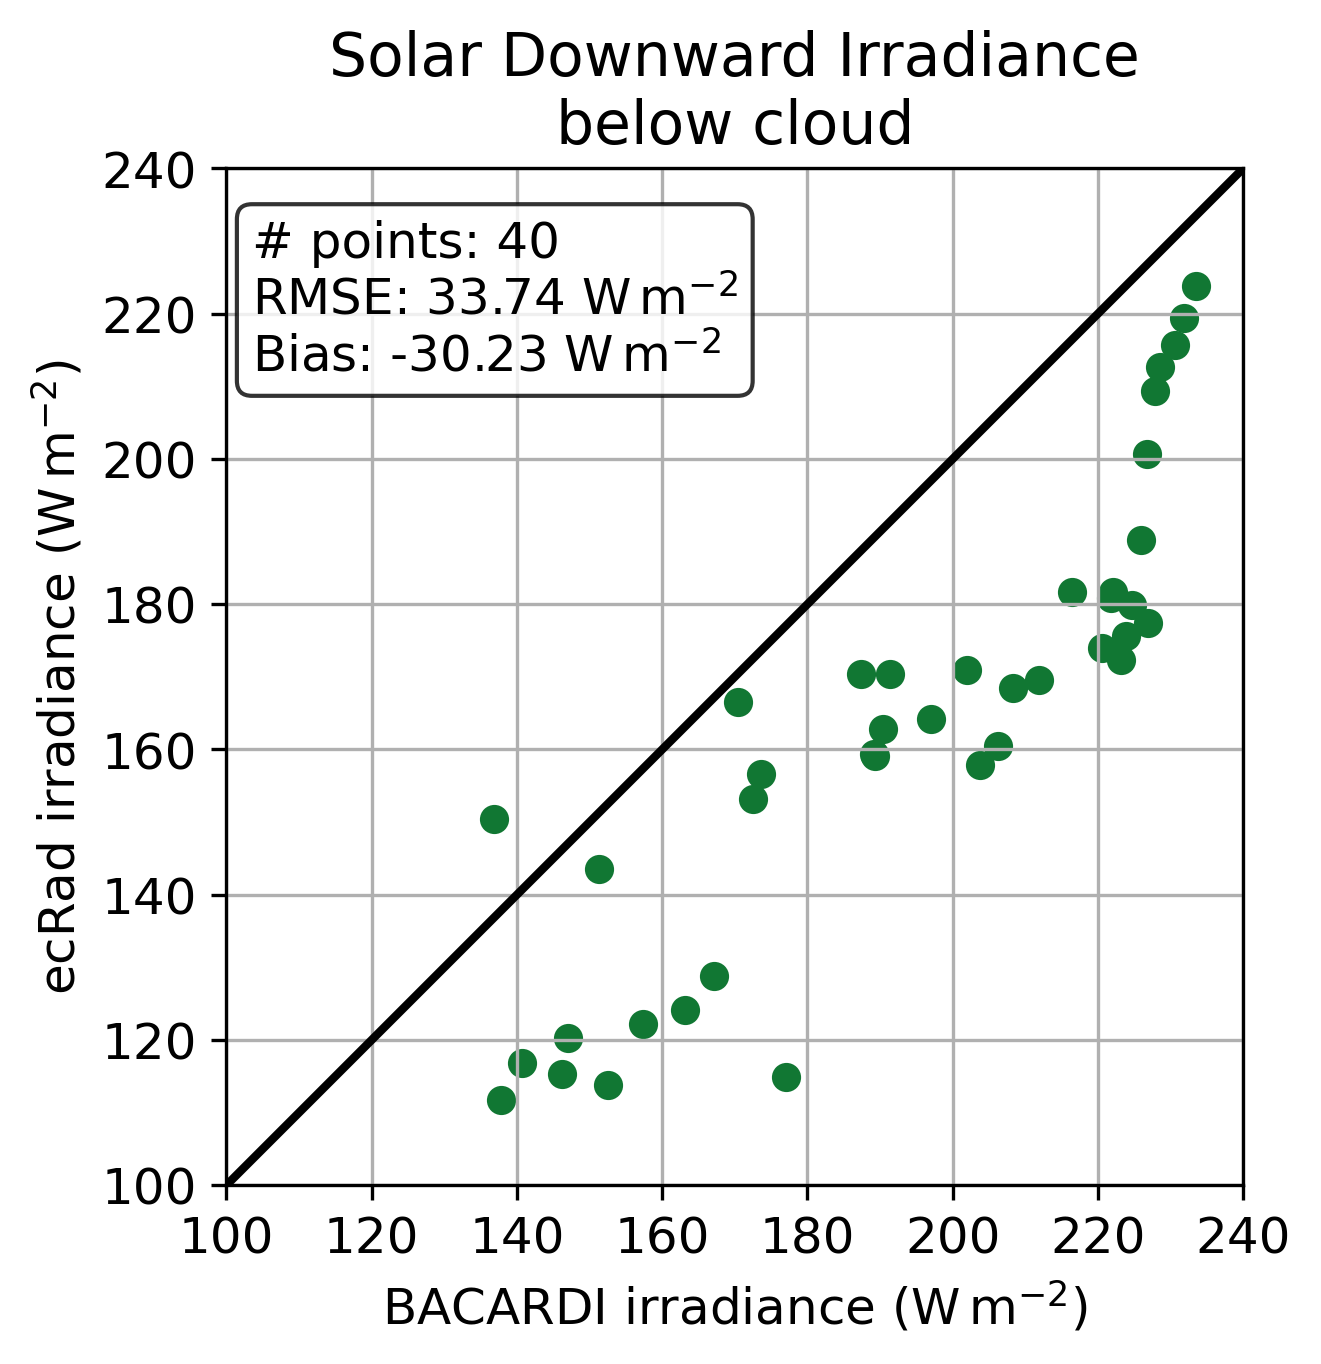
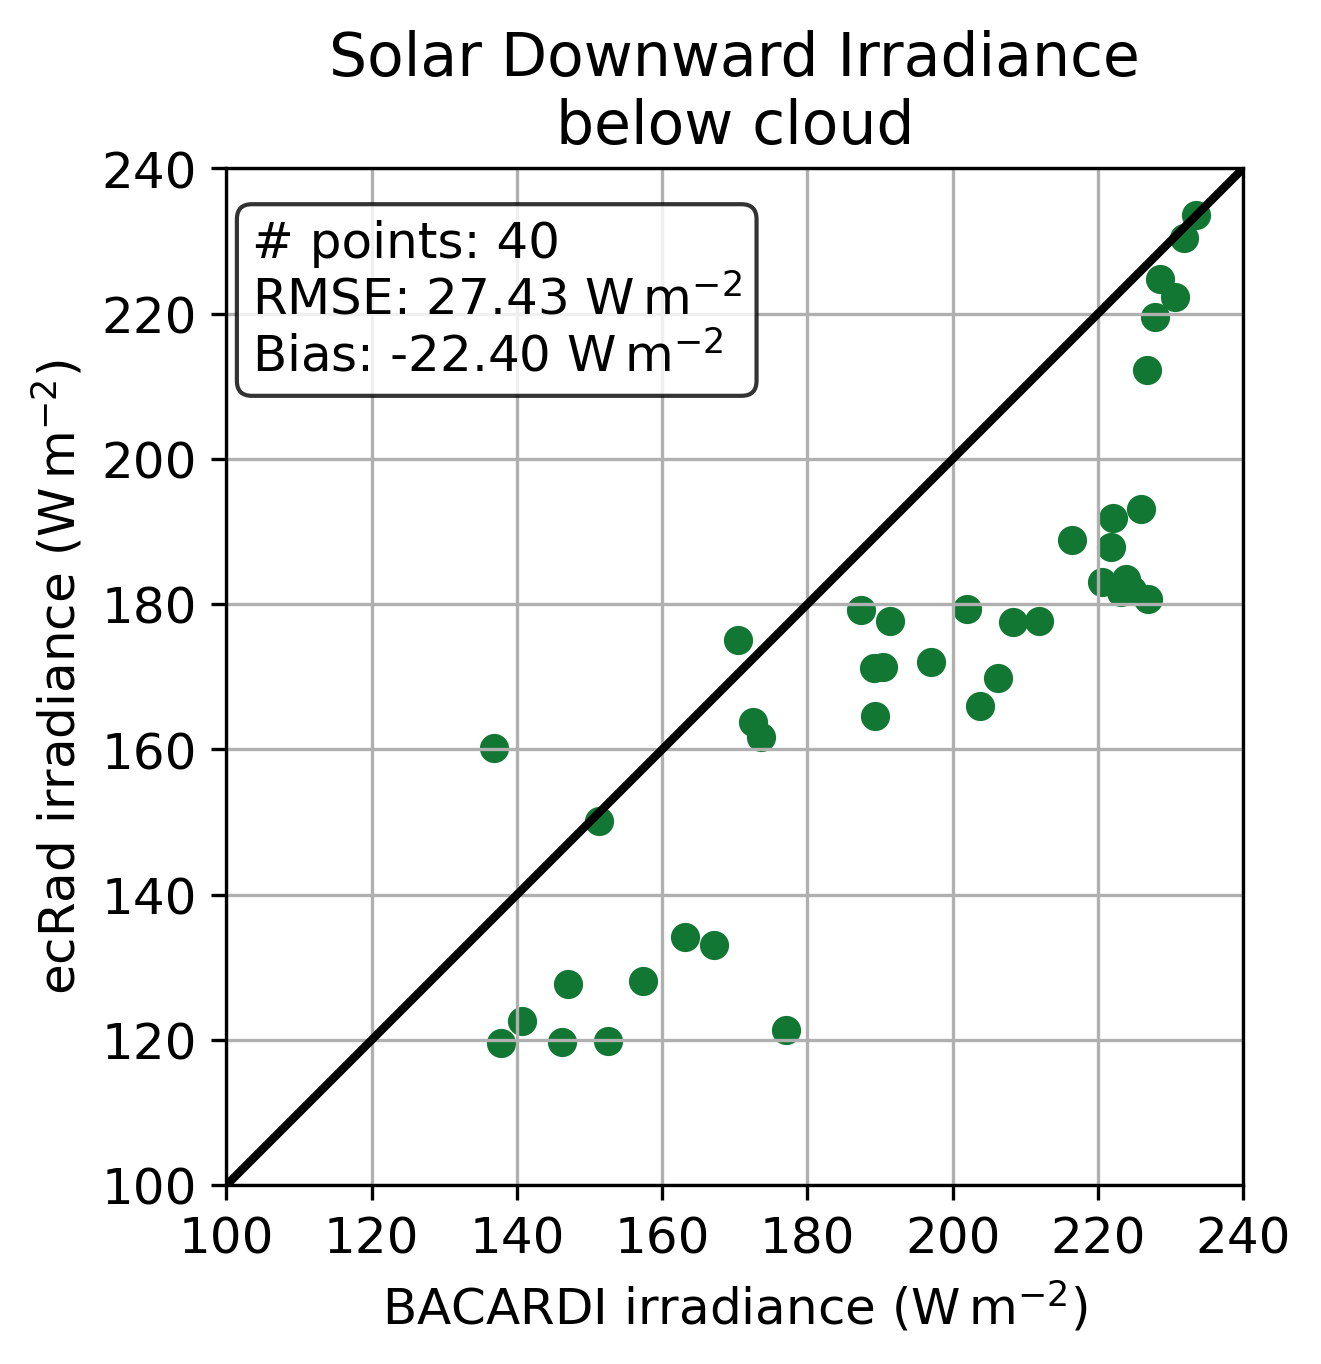
Update albedo experiment by using scaled albedo instead of constant values
- remove processing of ecRad data as this is now already done in ecrad_processing.py
- switch from F1280 to O1280 IFS data
- add scaling mechanism to the input file generation scripts
- update plots and documentation

diff --git a/experiments/ecrad_experiment_v13.py b/experiments/ecrad_experiment_v13.py
@@ -3,44 +3,47 @@
 | *author:* Johannes Röttenbacher
 | *created:* 15-04-2023
 
-Set the albedo during the whole flight to 0.06 (open ocean) or 0.99 (maximum albedo) and analyze the impact on the offset between simulation and measurement during the below cloud section in RF17.
+Set the albedo during the whole flight to 0.06 (open ocean) or scale it to 0.99 (maximum albedo) and analyze the impact on the offset between simulation and measurement during the below cloud section in RF17.
 
 * ``IFS_namelist_jr_20220411_v13.nam``: for flight RF17 with Fu-IFS ice model setting albedo to open ocean (input version v5)
 * ``IFS_namelist_jr_20220411_v13.1.nam``: for flight RF17 with Fu-IFS ice model setting albedo to 0.99 (input version v5.1)
+* ``IFS_namelist_jr_20220411_v13.2.nam``: for flight RF17 with Fu-IFS ice model setting albedo BACARDI measurement from below cloud section (input version v5.2)
 
 **Problem statement:** A clear offset can be observed in the solar downward irradiance below the cloud between ecRad and BACARDI with ecRad showing lower values than BACARDI.
 One idea is that multiple scattering from the sea ice surface to the cloud and back down plays a role here.
 By setting the albedo to open ocean (0.06) we can eliminate this multiple backscattering between cloud and surface.
 Comparing this experiment with the standard experiment can show us the potential impact of multiple scattering.
-We also run a experiment where we set the albedo to 0.99 to see how much more downward irradiance we can observe that way.
+We also run an experiment where we scale the albedo to 0.99 to see how much more downward irradiance we can observe that way.
+
+**Extension:** We extend the analysis and use the scaled measured below cloud albedo from BACARDI as input.
 
 We will focus on the above and below cloud section in the far north.
-The corresponding spectral surface albedo can be seen in :numref:`surface-albedo-cs`.
+The corresponding spectral surface albedo as used in the IFS can be seen in :numref:`surface-albedo-cs`.
 
 .. _surface-albedo-cs:
 
-.. figure:: figures/experiment_v13/HALO-AC3_20220411_HALO_RF17_sw_albedo_along_track_v1.png
+.. figure:: figures/experiment_v13/HALO-AC3_20220411_HALO_RF17_sw_albedo_along_track_v15.png
 
     Short wave albedo along track above and below cloud for all six spectral bands after :cite:t:`Ebert1992`.
 
-At first, we look at the difference in solar upward and downward irradiance between v1 (IFS albedo after :cite:t:`Ebert1992`) and v13 (ocean albedo 0.06).
+At first, we look at the difference in solar upward and downward irradiance between v15 (IFS albedo after :cite:t:`Ebert1992`) and v13 (ocean albedo 0.06).
 
 .. figure:: figures/experiment_v13/HALO-AC3_20220411_HALO_RF17_ecrad_diff_flux_up_sw_along_track.png
 
-    Difference in solar upward irradiance between v1 and v13.
+    Difference in solar upward irradiance between v15 and v13.
 
 .. figure:: figures/experiment_v13/HALO-AC3_20220411_HALO_RF17_ecrad_diff_flux_dn_sw_along_track.png
 
-    Difference in solar downward irradiance between v1 and v13.
+    Difference in solar downward irradiance between v15 and v13.
 
 We can see an unsurprising substantial difference in upward irradiance which then propagates to a smaller but still relevant difference in downward irradiance.
 This is especially pronounced for the thicker section of the cirrus at around 11:15 UTC.
 
 Looking at this from a more statistical point of view we can see the bias between simulation and measurement increase by about :math:`10\,Wm^{-2}`.
 
-.. figure:: figures/experiment_v13/HALO-AC3_20220411_HALO_RF17_Fdw_solar_bacardi_vs_ecrad_scatter_below_cloud_v1.png
+.. figure:: figures/experiment_v13/HALO-AC3_20220411_HALO_RF17_Fdw_solar_bacardi_vs_ecrad_scatter_below_cloud_v15.png
 
-    Scatterplot of along track difference between ecRad and BACARDI for v1.
+    Scatterplot of along track difference between ecRad and BACARDI for v15.
 
 .. figure:: figures/experiment_v13/HALO-AC3_20220411_HALO_RF17_Fdw_solar_bacardi_vs_ecrad_scatter_below_cloud_v13.png
 
@@ -54,7 +57,7 @@ For this we can take a look at the histogramm of differences and some statistics
 
 .. figure:: figures/experiment_v13/HALO-AC3_20220411_HALO_RF17_ecrad_diff_flux_dn_sw_hist.png
 
-    Histogram of differences between v1 and v13.
+    Histogram of differences between v15 and v13.
 
 We see that a lot of values are rather small.
 They correspond to the area above the cloud where only the atmosphere causes some minor scattering.
@@ -62,13 +65,15 @@ The median and mean of the distribution, however, are around :math:`10\\,Wm^{-2}
 
 So albedo does obviously have a major influence on the downward irradiance in this scenario.
 The next question now is, whether we can reduce the bias by increasing the surface albedo?
-For this we take a look at experiment v13.1 with an albedo of 0.99.
+For this we take a look at experiment v13.1 with a scaled albedo of 0.99.
+The albedo is scaled in such a way that the maximum albedo in the first short wave albedo band is set to 0.99 and the following bands are scaled according to the relative differences between the original short wave albedo bands.
+See the script for details.
 
 .. figure:: figures/experiment_v13/HALO-AC3_20220411_HALO_RF17_ecrad_diff1_flux_dn_sw_along_track.png
 
-    Difference in solar downward irradiance between v1 and v13.1 (albedo = 0.99).
+    Difference in solar downward irradiance between v15 and v13.1 (albedo = 0.99).
 
-By increasing the albedo to an unrealistic value of 0.99 we get a maximum of :math:`3\\,Wm^{-2}` difference in solar downward irradiance.
+By scaling the albedo to an unrealistic value of 0.99 we get a maximum of :math:`0.7\\,Wm^{-2}` difference in solar downward irradiance.
 Comparing the spectral albedo of each experiment in :numref:`spectral-albedo-all-experiments` we can also see, that the standard albedo for the scene is already high.
 So increasing it does not seem to be a sensible idea.
 
@@ -76,7 +81,19 @@ So increasing it does not seem to be a sensible idea.
 
 .. figure:: figures/experiment_v13/HALO-AC3_20220411_HALO_RF17_IFS_sw_albedo_spectrum_1100.png
 
-    Spectral albedo for all three experiments at one timestep below cloud.
+    Spectral albedo for all four experiments at one timestep below cloud.
+
+However, what happens if we use the measured albedo from BACARDI for the below cloud simulation which is lower than the one in the IFS but not as low as 0.06?
+Looking at the difference in solar downward irradiance we can see that it is still a positive difference meaning the predicted downward irradiance is still smaller compared to the IFS run.
+
+.. figure:: figures/experiment_v13/HALO-AC3_20220411_HALO_RF17_ecrad_diff2_flux_dn_sw_along_track.png
+
+    Difference in solar downward irradiance between v15 and v13.2 (albedo from BACARDI).
+
+The comparison with the measurements also show a worse match compared to v15.
+
+.. figure:: figures/experiment_v13/HALO-AC3_20220411_HALO_RF17_Fdw_solar_bacardi_vs_ecrad_scatter_below_cloud_v13.2.png
+
 
 From all this we can conclude that **the albedo does not seem to be the major problem** in this scene.
 
@@ -86,14 +103,10 @@ if __name__ == "__main__":
 # %% import modules
     import pylim.helpers as h
     import pylim.halo_ac3 as meta
-    from pylim import ecrad
     import ac3airborne
     from ac3airborne.tools import flightphase
-    import os
     import xarray as xr
     import numpy as np
-    from metpy.calc import density
-    from metpy.units import units
     import matplotlib.pyplot as plt
     from matplotlib import colors
     import pandas as pd
@@ -119,11 +132,6 @@ if __name__ == "__main__":
     bahamas_path = h.get_path("bahamas", flight, campaign)
     bahamas_file = f"HALO-AC3_HALO_BAHAMAS_{date}_{key}_v1_1s.nc"
 
-    # set up metadata for access to HALO-AC3 cloud
-    kwds = {'simplecache': dict(same_names=True)}
-    credentials = {"user": os.environ.get("AC3_CLOUD_USER"), "password": os.environ.get("AC3_CLOUD_PASSWORD")}
-    cat = ac3airborne.get_intake_catalog()["HALO-AC3"]["HALO"]
-
 # %% get flight segments for case study period
     segmentation = ac3airborne.get_flight_segments()["HALO-AC3"]["HALO"][f"HALO-AC3_HALO_{key}"]
     segments = flightphase.FlightPhaseFile(segmentation)
@@ -147,7 +155,7 @@ if __name__ == "__main__":
 
     time_extend_cs = below_cloud["end"] - above_cloud["start"]  # time extend for case study
 
-# %% read in data from HALO-AC3 cloud
+# %% read in bahamas data
     ins = xr.open_dataset(f"{bahamas_path}/{bahamas_file}")
 
 # %% read in BACARDI data
@@ -156,9 +164,9 @@ if __name__ == "__main__":
 
 # %% read in ecrad data
     ecrad_dict = dict()
-    for v in ["v1", "v13", "v13.1"]:
+    for v in ["v15", "v13", "v13.1", "v13.2"]:
         # use mean over columns data
-        ds = xr.open_dataset(f"{ecrad_path}/ecrad_merged_inout_{date}_{v}_mean.nc")
+        ds = xr.open_dataset(f"{ecrad_path}/ecrad_merged_inout_{date}_{v}.nc").isel(column=0)
         # select above and below cloud time
         ds = ds.sel(time=case_slice)
         ecrad_dict[v] = ds.copy()
@@ -167,43 +175,16 @@ if __name__ == "__main__":
     for k in ecrad_dict:
         ds = ecrad_dict[k].copy()
         # add coordinate values
-        ds = ds.assign_coords({"band_sw": range(1, 15), "band_lw": range(1, 17), "sw_albedo_band": range(1, 7)})
-        # replace default values with nan
-        ds["re_ice"] = ds.re_ice.where(ds.re_ice != 5.196162e-05, np.nan)
-        ds["re_liquid"] = ds.re_liquid.where(ds.re_liquid != 4.000001e-06, np.nan)
+        ds = ds.assign_coords({"sw_albedo_band": range(1, 7)})
 
-        # compute cloud ice water path
-        factor = ds.pressure_hl.diff(dim="half_level").to_numpy() / (9.80665 * ds.cloud_fraction.to_numpy())
-        ds["iwp"] = (["time", "level"], factor * ds.ciwc.to_numpy())
+        # replace inf with nan in ice water path
         ds["iwp"] = ds.iwp.where(ds.iwp != np.inf, np.nan)
-
-        # convert kg/kg to kg/m³
-        air_density = density(ds.pressure_full * units.Pa, ds.t * units.K, ds.q * units("kg/kg"))
-        ds["iwc"] = ds["q_ice"] * units("kg/kg") * air_density
-
-        # add optical properties to data sets
-        ice_optics_fu = ecrad.calc_ice_optics_fu_sw(ds["iwp"], ds.re_ice)
-        ds["od"] = ice_optics_fu[0]
-        ds["scat_od"] = ice_optics_fu[1]
-        ds["g"] = ice_optics_fu[2]
-        ds["band_sw"] = range(1, 15)
-        ds["band_lw"] = range(1, 17)
-        ds["absorption"] = ds["od"] - ds["scat_od"]
-        ds["od_mean"] = ds["od"].mean(dim="band_sw")
-        ds["scat_od_mean"] = ds["scat_od"].mean(dim="band_sw")
-        ds["g_mean"] = ds["g"].mean(dim="band_sw")
-        ds["scat_od_int"] = ds["scat_od"].integrate(coord="band_sw")
-        ds["od_int"] = ds["od"].integrate(coord="band_sw")
-        ds["absorption_int"] = ds["absorption"].integrate(coord="band_sw")
-
-        # calculate other optical parameters
-        ds["reflectivity_sw"] = ds.flux_up_sw / ds.flux_dn_sw
 
         ecrad_dict[k] = ds.copy()
 
 # %% get height level of actual flight altitude in ecRad model, this determines only the index of the level
     aircraft_height_da, height_level_da = dict(), dict()
-    for v in ["v1", "v13"]:
+    for v in ["v15", "v13", "v13.2"]:
         ds = ecrad_dict[v]
         bahamas_tmp = ins.sel(time=ds.time, method="nearest")
         ecrad_timesteps = len(ds.time)
@@ -242,7 +223,7 @@ if __name__ == "__main__":
     cb_ticks = dict()
     vmaxs = dict()
     vmins = dict(iwp=0)
-    xlabels = dict(v1="v1", v11="v11", diff="Difference v1 - v11")
+    xlabels = dict(v15="v15", v13="v13", diff="Difference v15 - v13")
 
     # set kwargs
     alpha = alphas[var] if var in alphas else 1
@@ -270,12 +251,17 @@ if __name__ == "__main__":
     if v == "diff":
         # calculate difference between simulations
         ds = ecrad_dict["v13"]
-        ecrad_ds_diff = ecrad_dict["v1"][var] - ds[var]
+        ecrad_ds_diff = ecrad_dict["v15"][var] - ds[var]
         ecrad_plot = ecrad_ds_diff.where((ds[var] != 0) | (~np.isnan(ds[var]))) * sf
     elif v == "diff1":
         # calculate difference between simulations
         ds = ecrad_dict["v13.1"]
-        ecrad_ds_diff = ecrad_dict["v1"][var] - ds[var]
+        ecrad_ds_diff = ecrad_dict["v15"][var] - ds[var]
+        ecrad_plot = ecrad_ds_diff.where((ds[var] != 0) | (~np.isnan(ds[var]))) * sf
+    elif v == "diff2":
+        # calculate difference between simulations
+        ds = ecrad_dict["v13.2"]
+        ecrad_ds_diff = ecrad_dict["v15"][var] - ds[var]
         ecrad_plot = ecrad_ds_diff.where((ds[var] != 0) | (~np.isnan(ds[var]))) * sf
     else:
         ds = ecrad_dict[v]
@@ -345,7 +331,7 @@ if __name__ == "__main__":
     plt.close()
 
 # %% plot histogram
-    xlabels = dict(diff="difference v1 - v13", diff1="difference v1 - v13.1")
+    xlabels = dict(diff="difference v15 - v13", diff1="difference v15 - v13.1", diff2="difference v15 - v13.2")
     xlabel = xlabels[v] if v in xlabels else v
     flat_array = ecrad_plot.to_numpy().flatten()
     mean = np.mean(flat_array)
@@ -369,10 +355,10 @@ if __name__ == "__main__":
 
 # %% plot timeseries
     var = "sw_albedo"
-    v = "v1"
+    v = "v15"
     band = None
     if v == "diff":
-        ecrad_plot = ecrad_dict["v1"][var] - ecrad_dict["v13"][var]
+        ecrad_plot = ecrad_dict["v15"][var] - ecrad_dict["v13"][var]
     else:
         ecrad_plot = ecrad_dict[v][var]
 
@@ -394,9 +380,9 @@ if __name__ == "__main__":
 
 # %% plot albedo spectrum from below cloud
     _, ax = plt.subplots(figsize=h.figsize_wide)
-    for v in ["v1", "v13", "v13.1"]:
-        ds_plot = ecrad_dict[v]["sw_albedo"].sel(time="2022-04-11 11:00")
-        ax.plot(ds_plot.to_numpy(), lw=3, label=v)
+    for v in ["v15", "v13", "v13.1", "v13.2"]:
+        ds_plot = ecrad_dict[v]["sw_albedo"].sel(time="2022-04-11 11:00", method="nearest")
+        ax.plot(ds_plot.to_numpy(), lw=3, label=v, marker="X", ms=12)
     ax.grid()
     ax.legend()
     xticklabels = list(x[1] for x in h.ci_bands)
@@ -410,11 +396,12 @@ if __name__ == "__main__":
     plt.close()
 
 # %% plot scatterplot of below cloud measurements
-    v = "v13"
+    v = "v13.2"
     bacardi_plot = bacardi_ds_res.sel(time=below_slice)
     ecrad_plot = ecrad_dict[v].isel(half_level=height_level_da[v]).sel(time=below_slice)
     plt.rc("font", size=12)
-    lims = dict(v1=[(120, 240), (80, 130), (95, 170), (210, 220)], v13=[(110, 240), (80, 150), (0, 200), (210, 220)])
+    lims = {"v15": [(120, 240), (80, 130), (95, 170), (210, 220)], "v13": [(110, 240), (80, 150), (0, 200), (210, 220)],
+            "v13.2": [(110, 240), (80, 150), (0, 200), (210, 220)]}
     lims = lims[v]
     for (i, x), y in zip(enumerate(bacardi_vars), ecrad_vars):
         rmse = np.sqrt(np.mean((ecrad_plot[y] - bacardi_plot[x]) ** 2))

diff --git a/experiments/ecrad_write_input_files_v5_1.py b/experiments/ecrad_write_input_files_v5_1.py
@@ -3,7 +3,7 @@
 | *author*: Johannes Röttenbacher
 | *created*: 15-04-2023
 
-Replace sw_albedo calculated according to :cite:t:`Ebert1992` with a maximum albedo (0.99) for the whole flight.
+Replace sw_albedo calculated according to :cite:t:`Ebert1992` with a maximum albedo (0.99) for the whole flight and scale all bands according to the differences in the original sw_albedo.
 
 **Required User Input:**
 
@@ -16,7 +16,7 @@ The first possible option is the default.
 
 **Output:**
 
-* well documented ecRad input file in netCDF format for each time step with sw_albedo = 0.99
+* well documented ecRad input file in netCDF format for each time step with scaled sw_albedo and a maximum of 0.99
 
 """
 
@@ -81,8 +81,12 @@ if __name__ == "__main__":
     nav_data_ip = pd.read_csv(f"{path_ifs_output}/nav_data_ip_{date}.csv", index_col="time", parse_dates=True)
     data_ml = xr.open_dataset(f"{path_ifs_output}/ifs_{ifs_date}_{init_time}_ml_O1280_processed.nc")
     data_ml = data_ml.set_index(rgrid=["lat", "lon"])
-    # set sw_albedo to 0.99
-    data_ml["sw_albedo"] = xr.full_like(data_ml["sw_albedo"], 0.99)
+    # scale sw_albedo to 0.99
+    sw_albedo = xr.full_like(data_ml["sw_albedo"], 0.99)
+    sw_albedo_band_1 = data_ml["sw_albedo"].isel(sw_albedo_band=0)
+    diffs = (sw_albedo_band_1 - data_ml["sw_albedo"].isel(sw_albedo_band=slice(1, 6))) / sw_albedo_band_1
+    sw_albedo[:, 1:6, ...] = sw_albedo[:, 1:6, ...] - diffs * sw_albedo.isel(sw_albedo_band=0)
+    data_ml["sw_albedo"] = sw_albedo
 
     # %% select lat and lon closest to flightpath
     idx = len(nav_data_ip)

diff --git a/experiments/ecrad_write_input_files_v5_2.py b/experiments/ecrad_write_input_files_v5_2.py
@@ -143,12 +143,15 @@ if __name__ == "__main__":
             dsi_ml_out = ds_sel.sel(time=dt_time, method="nearest")  # select closest time step
             ending = ""
 
+        # get relative difference from all sw albedo bands to the first band in the IFS to scale the constant albedo from BACARDI
+        sw_albedo = xr.full_like(dsi_ml_out["sw_albedo"], sw_albedo)
+        diffs = (dsi_ml_out["sw_albedo"][0, ...] - dsi_ml_out["sw_albedo"][1:, ...]) / dsi_ml_out["sw_albedo"][0, :]
+        sw_albedo[1:6, ...] = sw_albedo[1:6, ...] - diffs * sw_albedo[0, ...]
+        dsi_ml_out["sw_albedo"] = sw_albedo
+
+        # add cos solar zenith angle to the data set
         n_rgrid = len(ds_sel.rgrid)
-        sw_albedo = np.full(n_rgrid, fill_value=sw_albedo)
         cos_sza = np.full(n_rgrid, fill_value=nav_data_ip.cos_sza[i])
-        dsi_ml_out["sw_albedo"] = xr.DataArray(sw_albedo, dims=["rgrid"],
-                                               attrs=dict(unit="1",
-                                                          long_name="Short wave albedo calculated from BACARDI measurements corrected for diffuse radiation"))
         dsi_ml_out["cos_solar_zenith_angle"] = xr.DataArray(cos_sza,
                                                             dims=["rgrid"],
                                                             attrs=dict(unit="1",

diff --git a/docs/experiments.rst b/docs/experiments.rst
@@ -40,6 +40,7 @@ Namelists can be found in the corresponding date folder in the ecrad folder for 
 * ``IFS_namelist_jr_20220411_v12.nam``: for RF17 with **Fu-IFS** ice model using general cloud optics
 * ``IFS_namelist_jr_20220411_v13.nam``: for RF17 with **Fu-IFS** ice model setting albedo to open ocean (input version v5)
 * ``IFS_namelist_jr_20220411_v13.1.nam``: for RF17 with **Fu-IFS** ice model setting albedo to 0.99 (input version v5.1)
+* ``IFS_namelist_jr_20220411_v13.2.nam``: for RF17 with **Fu-IFS** ice model setting albedo to BACARDI measurements belwo cloud (input version v5.2)
 * ``IFS_namelist_jr_20220411_v14.nam``: for RF17 with **Fu-IFS** ice model including aerosol in run (TBD, input version v9)
 * ``IFS_namelist_jr_20220411_v15.nam``: for RF17 with **Fu-IFS** ice model using O1280 IFS data (input version **v6**)
 * ``IFS_namelist_jr_20220411_v16.nam``: for RF17 with **Fu-IFS** ice model using O1280 IFS data and **varcloud** retrieval for ciwc and re_ice input for the **below cloud** section (input version **v7**)
